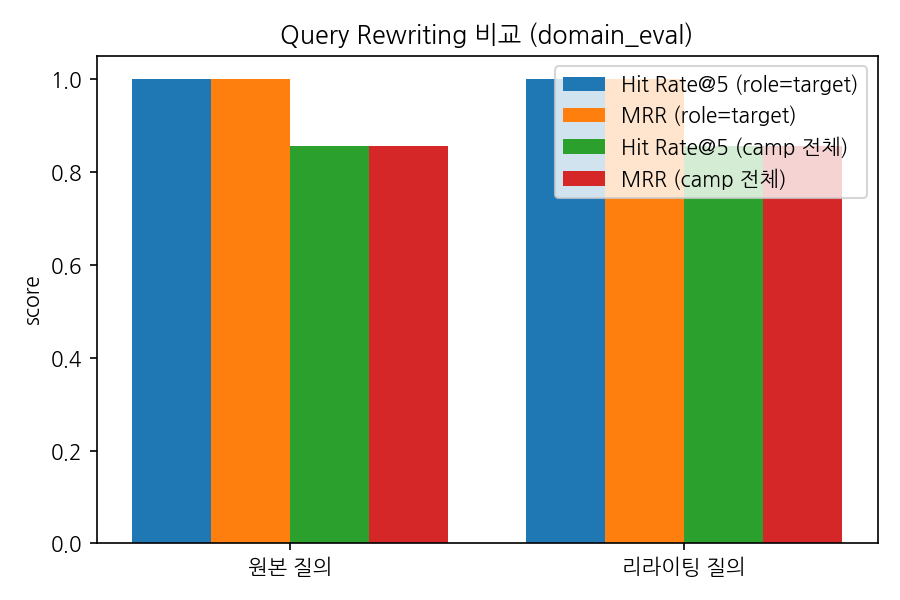
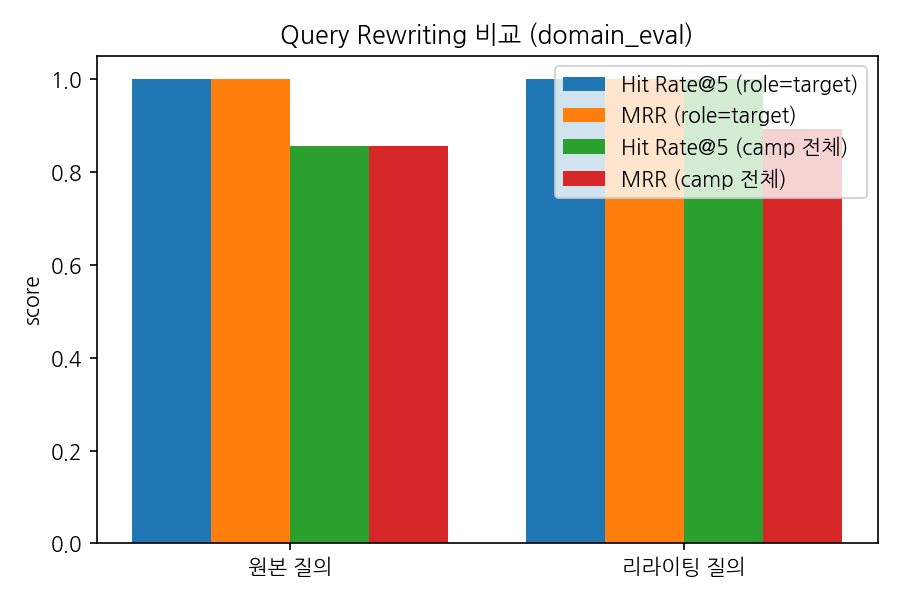
test : dev 반영 후 RAG 3종 2차 평가 결과 갱신
dev의 채택안 vs 실측 최고 성능 비교 로직을 반영해 tech_research,
trl_eval, domain_eval 리포트와 그래프를 재생성함. Query Rewriting
재실행으로 trl, domain 관점에서도 개선폭이 관측됨.

Changed region(s): [[0.7467, 0.12, 0.9333, 0.24]]

diff --git a/scripts/tech_research/tech_research_report.md b/scripts/tech_research/tech_research_report.md
@@ -36,7 +36,7 @@
 | 버전 | Hit Rate@5 (role=target) | MRR (role=target) | Hit Rate@5 (camp 전체) | MRR (camp 전체) |
 |---|---|---|---|---|
 | 원본 질의 | 1.000 | 0.833 | 0.929 | 0.845 |
-| 리라이팅 질의 | 1.000 | 0.875 | 1.000 | 0.952 |
+| 리라이팅 질의 | 1.000 | 0.875 | 1.000 | 0.964 |
 
 ![Query Rewriting 비교](report_assets/query_rewriting_comparison.png)
 
@@ -44,5 +44,13 @@
 
 목표 임계값(Hit Rate@5 ≥ 0.8, MRR ≥ 0.6)을 만족함.
 
+**채택안 vs 실측 최고 성능** (MRR (camp 전체) 기준):
+
+- 청킹: 채택안은 v1_section_aware이지만, MRR (camp 전체) 기준 실측 최고 성능은 **v2_naive**임 — 6.1절/5장 절차대로 재검토 대상.
+- 임베딩: 채택안은 bge-m3이지만, MRR (camp 전체) 기준 실측 최고 성능은 **qwen3-embedding-0.6b**임 — 6.1절/5장 절차대로 재검토 대상.
+- Query Rewriting: 채택안(리라이팅 질의)이 MRR (camp 전체) 기준으로도 최고 성능임.
+
 기존 설계(5장)는 v1_section_aware + bge-m3 + Query Rewriting 적용을 기본값으로
-채택했음. 위 수치가 그 채택을 뒷받침하지 못하면 6장·7.2절 설계를 재검토할 것.
+채택했음. 위에서 "재검토 대상"으로 표시된 항목이 있다면 6장·7.2절 설계를
+재검토할 것 — 다만 골든셋이 30개(role=target 필터는 10개)뿐이라 차이가 통계적으로
+확고한지는 표본을 늘려 다시 확인해 볼 것.

diff --git a/scripts/domain_eval/domain_eval_report.md b/scripts/domain_eval/domain_eval_report.md
@@ -38,7 +38,7 @@
 | 버전 | Hit Rate@5 (role=target) | MRR (role=target) | Hit Rate@5 (camp 전체) | MRR (camp 전체) |
 |---|---|---|---|---|
 | 원본 질의 | 1.000 | 1.000 | 0.857 | 0.857 |
-| 리라이팅 질의 | 1.000 | 1.000 | 0.857 | 0.857 |
+| 리라이팅 질의 | 1.000 | 1.000 | 1.000 | 0.893 |
 
 ![Query Rewriting 비교](report_assets/query_rewriting_comparison.png)
 
@@ -46,6 +46,14 @@
 
 목표 임계값(Hit Rate@5 ≥ 0.8, MRR ≥ 0.6)을 만족함.
 
+**채택안 vs 실측 최고 성능** (MRR (camp 전체) 기준):
+
+- 청킹: 채택안은 v1_section_aware이지만, MRR (camp 전체) 기준 실측 최고 성능은 **v2_naive**임 — 6.1절/5장 절차대로 재검토 대상.
+- 임베딩: 채택안은 bge-m3이지만, MRR (camp 전체) 기준 실측 최고 성능은 **qwen3-embedding-0.6b**임 — 6.1절/5장 절차대로 재검토 대상.
+- Query Rewriting: 채택안(리라이팅 질의)이 MRR (camp 전체) 기준으로도 최고 성능임.
+
 운영 중인 domain_eval은 여기에 더해 "실험 환경"/"평가" 절 우선 재랭킹을 적용함
 (7.4절 2번 항목). 이 재랭킹은 별도 실험 없이 채택된 장치라, 위 수치와 별개로
 실제 운영 결과에서 순위 개선 여부를 추가로 관찰할 것(schedule.md 3.2절 참고).
+골든셋이 30개(role=target 필터는 10개)뿐이라 차이가 통계적으로 확고한지는
+표본을 늘려 다시 확인해 볼 것.

diff --git a/scripts/trl_eval/trl_eval_report.md b/scripts/trl_eval/trl_eval_report.md
@@ -37,7 +37,7 @@
 | 버전 | Hit Rate@5 (role=target) | MRR (role=target) | Hit Rate@5 (camp 전체) | MRR (camp 전체) |
 |---|---|---|---|---|
 | 원본 질의 | 1.000 | 0.833 | 0.889 | 0.833 |
-| 리라이팅 질의 | 1.000 | 0.833 | 0.889 | 0.833 |
+| 리라이팅 질의 | 1.000 | 1.000 | 0.889 | 0.889 |
 
 ![Query Rewriting 비교](report_assets/query_rewriting_comparison.png)
 
@@ -45,5 +45,13 @@
 
 목표 임계값(Hit Rate@5 ≥ 0.8, MRR ≥ 0.6)을 만족함.
 
+**채택안 vs 실측 최고 성능** (MRR (camp 전체) 기준):
+
+- 청킹: 채택안은 v1_section_aware이지만, MRR (camp 전체) 기준 실측 최고 성능은 **v2_naive**임 — 6.1절/5장 절차대로 재검토 대상.
+- 임베딩: 채택안은 bge-m3이지만, MRR (camp 전체) 기준 실측 최고 성능은 **qwen3-embedding-0.6b**임 — 6.1절/5장 절차대로 재검토 대상.
+- Query Rewriting: 채택안(리라이팅 질의)이 MRR (camp 전체) 기준으로도 최고 성능임.
+
 trl_eval은 재검색 시 질의 초점을 "구현/공식 발표"에서 "한계·실패 사례·후속
 검증"으로 바꾸는 로직(7.3절)이 있으므로, 위 수치는 1차 패스(재검색 전) 기준임.
+골든셋이 30개(role=target 필터는 10개)뿐이라 차이가 통계적으로 확고한지는
+표본을 늘려 다시 확인해 볼 것.
